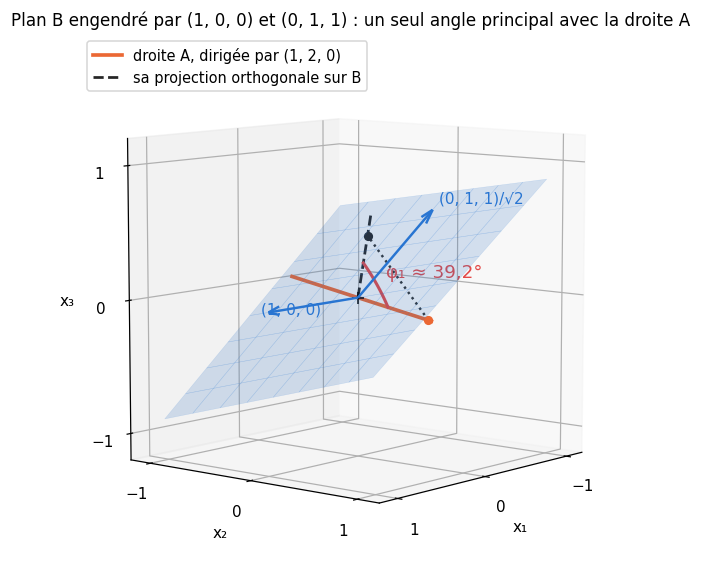
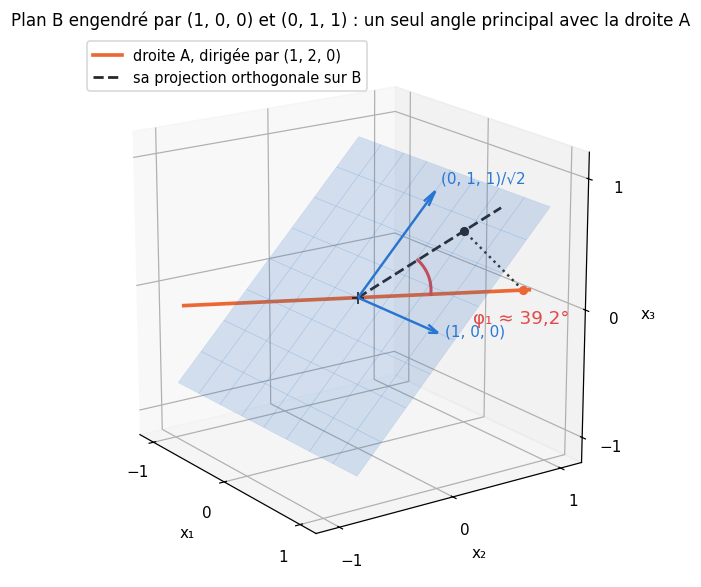
M25b (en cours) : fiche et figures (brouillon)
Claude-Session: https://claude.ai/code/session_01Nzd2BLBqKp1WGBHcAcsxs2

diff --git a/tools/chapters/figures_m25b.py b/tools/chapters/figures_m25b.py
@@ -54,7 +54,7 @@ PPCA_S2 = 2.0
 PPCA_X = np.array([3.0, 3.0])          # §6: a season, x − μ
 LINE_A = np.array([1.0, 2.0, 0.0])     # §6: principal angle between a line and a plane of R³
 PLANE_B = np.array([[1.0, 0.0, 0.0], [0.0, 1.0, 1.0]])
-VIEW = (8, 40)                          # §6: elevation and azimuth of the 3-D figure
+VIEW = (18, -35)                          # §6: elevation and azimuth of the 3-D figure
 LAMP_T = 3.0                           # §7: replacement after T years
 LAMP_THETA = 2.0                       # §7: mean lifetime (years)
 
@@ -305,7 +305,8 @@ def principal_angle() -> None:
     arc = np.array([math.cos(t) * p / np.linalg.norm(p) + math.sin(t) * (u - p) / np.linalg.norm(u - p)
                     for t in np.linspace(0, math.radians(phi), 30)]) * 0.55
     ax.plot(*arc.T, color=C[7], lw=2)
-    ax.text(*(0.62 * (u + p / np.linalg.norm(p)) / 2 * 1.4), f"φ₁ ≈ {fr(phi, 1)}°", fontsize=12, color=C[7])
+    ax.text(*(0.75 * u + 0.15 * p / np.linalg.norm(p) - np.array([0.0, 0.0, 0.32])), f"φ₁ ≈ {fr(phi, 1)}°",
+            fontsize=12, color=C[7])
     for v, name in ((PLANE_B[0], "(1, 0, 0)"), (PLANE_B[1] / math.sqrt(2), "(0, 1, 1)/√2")):
         ax.quiver(0, 0, 0, *v, color=C[0], lw=1.6, arrow_length_ratio=0.12)
         ax.text(*(1.08 * v), name, fontsize=10, color=C[0])
